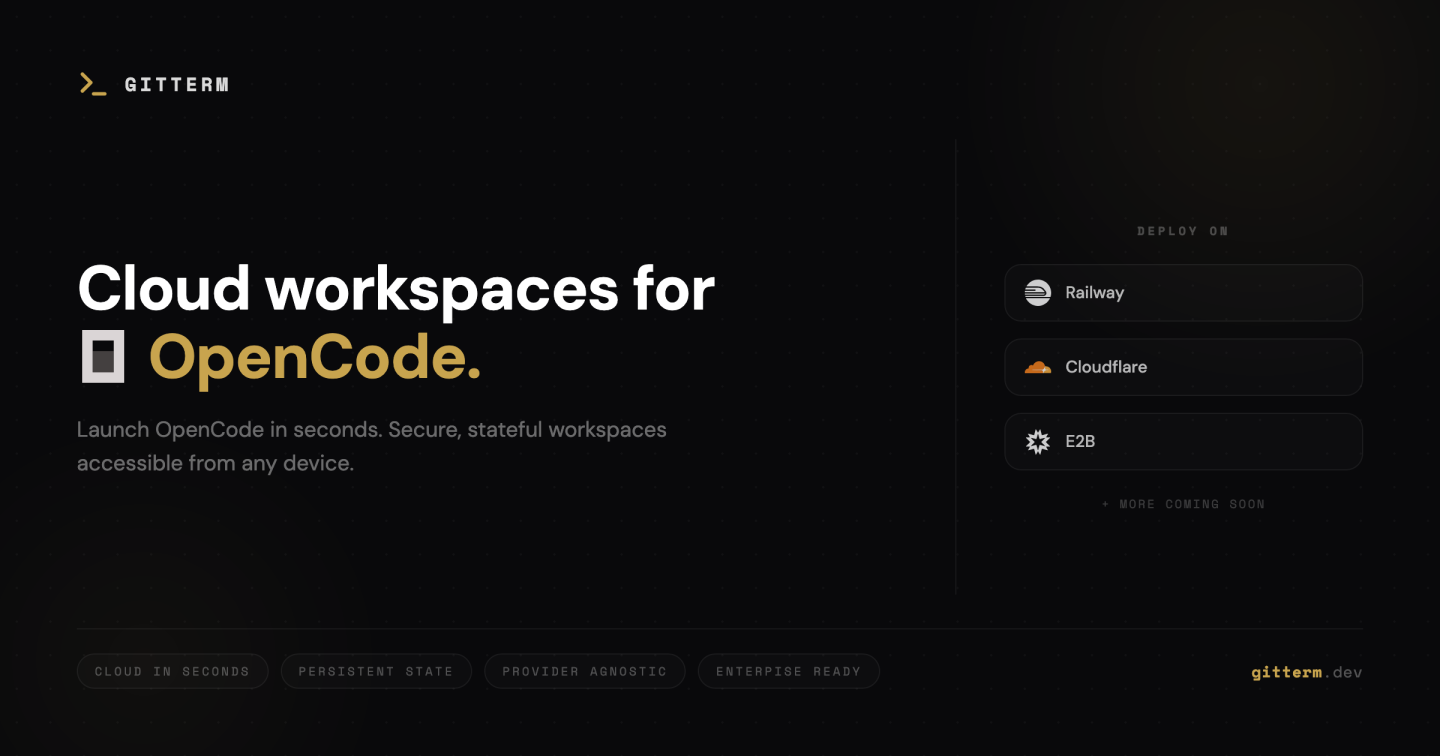
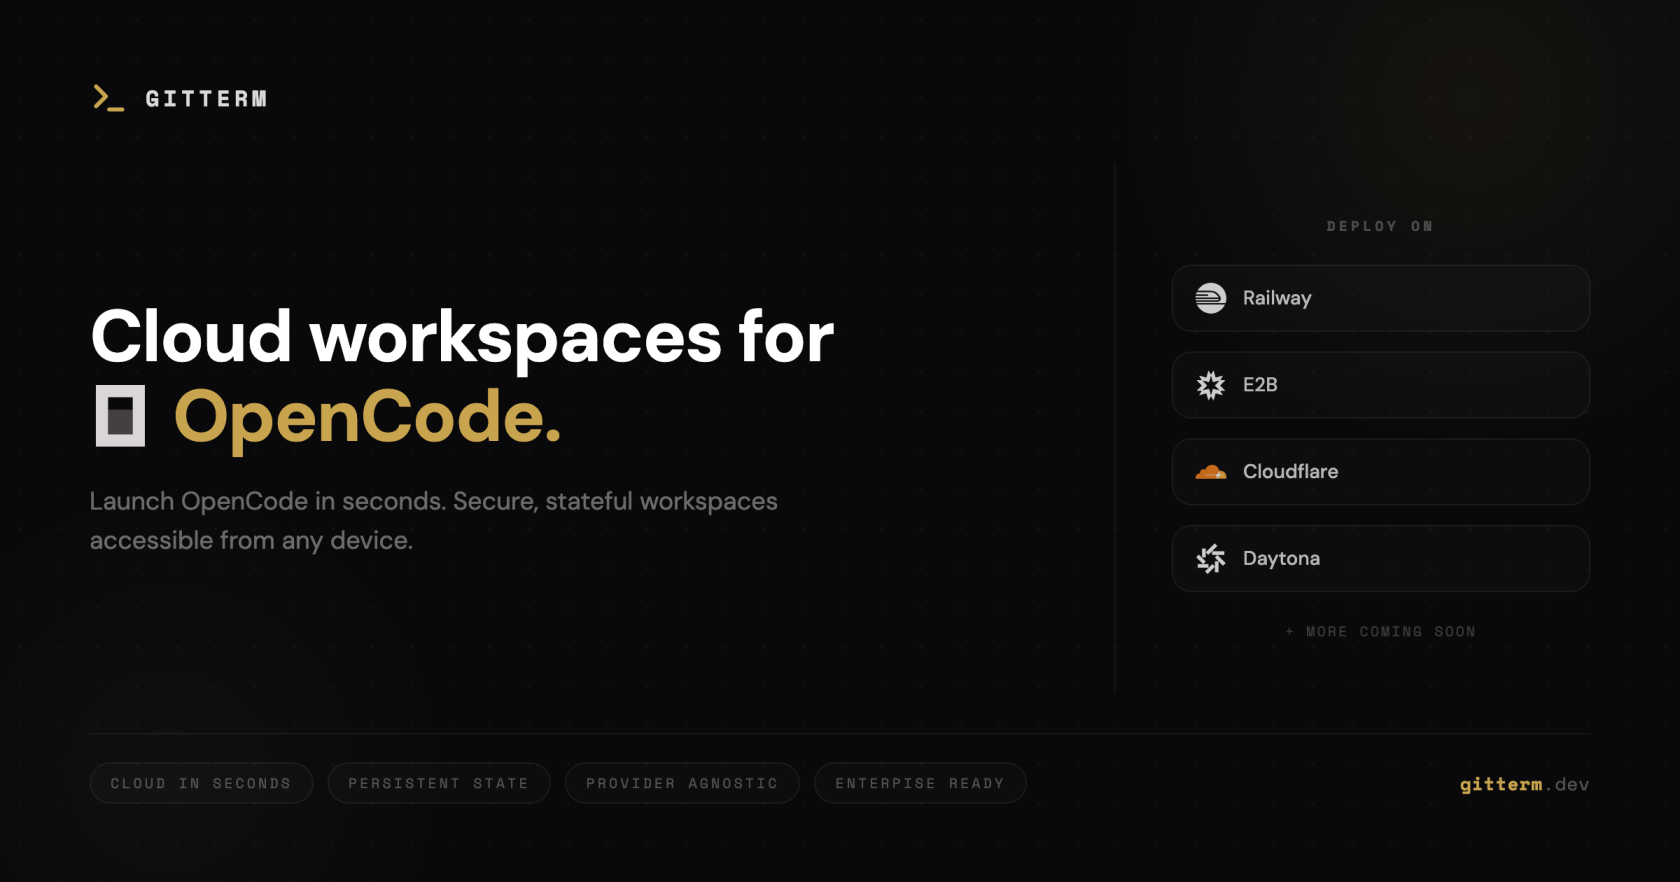
chore(daytona): Created Daytona Provider Annoucemnt media

diff --git a/apps/web/public/daytona-announcement.html b/apps/web/public/daytona-announcement.html
@@ -1,0 +1,363 @@
+<!doctype html>
+<html lang="en">
+  <head>
+    <meta charset="UTF-8" />
+    <meta name="viewport" content="width=1200" />
+    <title>GitTerm - Daytona Now Supported</title>
+    <link rel="preconnect" href="https://fonts.googleapis.com" />
+    <link
+      href="https://fonts.googleapis.com/css2?family=DM+Sans:wght@400;500;700&family=Space+Mono:wght@400;700&display=swap"
+      rel="stylesheet"
+    />
+    <style>
+      :root {
+        --bg: #09090b;
+        --text: #ffffff;
+        --muted: rgba(255, 255, 255, 0.35);
+        --soft: rgba(255, 255, 255, 0.08);
+        --accent: #c8a44e;
+        --accent-soft: rgba(200, 164, 78, 0.08);
+        --accent-border: rgba(200, 164, 78, 0.2);
+      }
+
+      *,
+      *::before,
+      *::after {
+        margin: 0;
+        padding: 0;
+        box-sizing: border-box;
+      }
+
+      body {
+        width: 1200px;
+        height: 675px;
+        overflow: hidden;
+        background: var(--bg);
+        font-family: "DM Sans", sans-serif;
+        color: var(--text);
+        position: relative;
+      }
+
+      body::before {
+        content: "";
+        position: absolute;
+        inset: 0;
+        background-image: radial-gradient(circle, rgba(255, 255, 255, 0.03) 1px, transparent 1px);
+        background-size: 28px 28px;
+        z-index: 0;
+      }
+
+      .glow-1 {
+        position: absolute;
+        width: 560px;
+        height: 560px;
+        top: -160px;
+        right: -100px;
+        background: radial-gradient(closest-side, rgba(200, 164, 78, 0.08), transparent);
+        border-radius: 50%;
+        z-index: 0;
+      }
+
+      .glow-2 {
+        position: absolute;
+        width: 420px;
+        height: 420px;
+        bottom: -120px;
+        left: -80px;
+        background: radial-gradient(closest-side, rgba(200, 164, 78, 0.04), transparent);
+        border-radius: 50%;
+        z-index: 0;
+      }
+
+      .card {
+        position: relative;
+        z-index: 1;
+        width: 100%;
+        height: 100%;
+        display: grid;
+        grid-template-columns: 1fr 340px;
+        grid-template-rows: auto 1fr auto;
+        padding: 48px 64px;
+      }
+
+      .top {
+        grid-column: 1 / -1;
+        display: flex;
+        align-items: center;
+        justify-content: space-between;
+        margin-bottom: 24px;
+      }
+
+      .brand {
+        display: flex;
+        align-items: center;
+        gap: 12px;
+      }
+
+      .brand-icon {
+        width: 24px;
+        height: 24px;
+        color: var(--accent);
+      }
+
+      .brand-name {
+        font-family: "Space Mono", monospace;
+        font-size: 14px;
+        font-weight: 700;
+        letter-spacing: 0.18em;
+        color: rgba(255, 255, 255, 0.7);
+        text-transform: uppercase;
+      }
+
+      .badge {
+        font-family: "Space Mono", monospace;
+        font-size: 10px;
+        font-weight: 700;
+        letter-spacing: 0.2em;
+        text-transform: uppercase;
+        color: var(--accent);
+        border: 1px solid var(--accent-border);
+        background: var(--accent-soft);
+        padding: 7px 18px;
+        border-radius: 999px;
+      }
+
+      .left {
+        grid-column: 1;
+        display: flex;
+        flex-direction: column;
+        align-items: center;
+        justify-content: center;
+        padding-right: 48px;
+      }
+
+      .logos {
+        display: flex;
+        align-items: center;
+        gap: 36px;
+        margin-bottom: 44px;
+      }
+
+      .logo-box {
+        display: flex;
+        flex-direction: column;
+        align-items: center;
+        gap: 12px;
+      }
+
+      .logo-box img {
+        width: 88px;
+        height: 88px;
+      }
+
+      .logo-label {
+        font-family: "Space Mono", monospace;
+        font-size: 11px;
+        font-weight: 700;
+        letter-spacing: 0.12em;
+        text-transform: uppercase;
+        color: rgba(255, 255, 255, 0.5);
+      }
+
+      .connector {
+        display: flex;
+        align-items: center;
+        justify-content: center;
+        width: 48px;
+        height: 48px;
+        border-radius: 14px;
+        border: 1px solid var(--soft);
+        background: rgba(255, 255, 255, 0.03);
+        margin-bottom: 24px;
+      }
+
+      .connector span {
+        font-size: 24px;
+        font-weight: 300;
+        color: rgba(200, 164, 78, 0.5);
+        line-height: 1;
+      }
+
+      .headline {
+        font-size: 54px;
+        font-weight: 700;
+        line-height: 1.12;
+        letter-spacing: -0.02em;
+        color: var(--text);
+        text-align: center;
+      }
+
+      .headline em {
+        font-style: normal;
+        color: var(--accent);
+      }
+
+      .right {
+        grid-column: 2;
+        display: flex;
+        flex-direction: column;
+        justify-content: center;
+        border-left: 1px solid rgba(255, 255, 255, 0.06);
+        padding-left: 48px;
+      }
+
+      .highlights-label {
+        font-family: "Space Mono", monospace;
+        font-size: 10px;
+        font-weight: 700;
+        letter-spacing: 0.25em;
+        text-transform: uppercase;
+        color: rgba(255, 255, 255, 0.25);
+        margin-bottom: 24px;
+      }
+
+      .highlights {
+        display: flex;
+        flex-direction: column;
+        gap: 20px;
+      }
+
+      .highlight {
+        display: flex;
+        align-items: flex-start;
+        gap: 14px;
+      }
+
+      .highlight-icon {
+        width: 8px;
+        height: 8px;
+        min-width: 8px;
+        margin-top: 7px;
+        border-radius: 50%;
+        background: var(--accent);
+        opacity: 0.75;
+      }
+
+      .highlight-text {
+        display: flex;
+        flex-direction: column;
+        gap: 4px;
+      }
+
+      .highlight-title {
+        font-size: 15px;
+        font-weight: 700;
+        color: rgba(255, 255, 255, 0.85);
+      }
+
+      .highlight-desc {
+        font-size: 13px;
+        line-height: 1.5;
+        color: var(--muted);
+      }
+
+      .bottom {
+        grid-column: 1 / -1;
+        display: flex;
+        align-items: center;
+        justify-content: space-between;
+        margin-top: 24px;
+        padding-top: 20px;
+        border-top: 1px solid rgba(255, 255, 255, 0.06);
+      }
+
+      .bottom-left {
+        font-family: "Space Mono", monospace;
+        font-size: 11px;
+        letter-spacing: 0.15em;
+        text-transform: uppercase;
+        color: rgba(255, 255, 255, 0.2);
+      }
+
+      .url {
+        font-family: "Space Mono", monospace;
+        font-size: 13px;
+        letter-spacing: 0.04em;
+        color: rgba(255, 255, 255, 0.3);
+      }
+
+      .url strong {
+        color: var(--accent);
+        font-weight: 700;
+      }
+    </style>
+  </head>
+  <body>
+    <div class="glow-1"></div>
+    <div class="glow-2"></div>
+
+    <div class="card">
+      <div class="top">
+        <div class="brand">
+          <svg
+            class="brand-icon"
+            viewBox="0 0 24 24"
+            fill="none"
+            stroke="currentColor"
+            stroke-width="2.5"
+            stroke-linecap="round"
+            stroke-linejoin="round"
+          >
+            <polyline points="4 17 10 11 4 5" />
+            <line x1="12" y1="19" x2="20" y2="19" />
+          </svg>
+          <span class="brand-name">GitTerm</span>
+        </div>
+        <div class="badge">Now Supported</div>
+      </div>
+
+      <div class="left">
+        <div class="logos">
+          <div class="logo-box">
+            <img src="/opencode.svg" alt="OpenCode" />
+            <span class="logo-label">OpenCode</span>
+          </div>
+          <div class="connector"><span>+</span></div>
+          <div class="logo-box">
+            <img src="/daytona.svg" alt="Daytona" />
+            <span class="logo-label">Daytona</span>
+          </div>
+        </div>
+        <h1 class="headline">Daytona is now on<br /><em>GitTerm.</em></h1>
+      </div>
+
+      <div class="right">
+        <span class="highlights-label">Why Daytona</span>
+        <div class="highlights">
+          <div class="highlight">
+            <div class="highlight-icon"></div>
+            <div class="highlight-text">
+              <span class="highlight-title">Instant cloud sandboxes</span>
+              <span class="highlight-desc"
+                >Spin up clean remote dev environments for OpenCode in seconds. Benched at 0.67s median TTI.</span
+              >
+            </div>
+          </div>
+          <div class="highlight">
+            <div class="highlight-icon"></div>
+            <div class="highlight-text">
+              <span class="highlight-title">Docker in Docker</span>
+              <span class="highlight-desc"
+                >Spin up databases, Redis, and other services inside the sandbox so you and your agents can work against a real dev stack.</span
+              >
+            </div>
+          </div>
+          <div class="highlight">
+            <div class="highlight-icon"></div>
+            <div class="highlight-text">
+              <span class="highlight-title">US and EU regions</span>
+              <span class="highlight-desc"
+                >Choose the closest Daytona target region for lower-latency workspaces.</span
+              >
+            </div>
+          </div>
+        </div>
+      </div>
+
+      <div class="bottom">
+        <span class="bottom-left">Deploy OpenCode workspaces on Daytona</span>
+        <span class="url"><strong>gitterm</strong>.dev</span>
+      </div>
+    </div>
+  </body>
+</html>

diff --git a/apps/web/public/og-card.html b/apps/web/public/og-card.html
@@ -286,12 +286,16 @@
             <span>Railway</span>
           </div>
           <div class="provider-row">
+            <img src="/E2B.svg" alt="E2B" />
+            <span>E2B</span>
+          </div>
+          <div class="provider-row">
             <img src="/cloudflare.svg" alt="Cloudflare" />
             <span>Cloudflare</span>
           </div>
           <div class="provider-row">
-            <img src="/E2B.svg" alt="E2B" />
-            <span>E2B</span>
+            <img src="/daytona.svg" alt="Daytona" />
+            <span>Daytona</span>
           </div>
         </div>
         <span class="providers-more">+ more coming soon</span>
